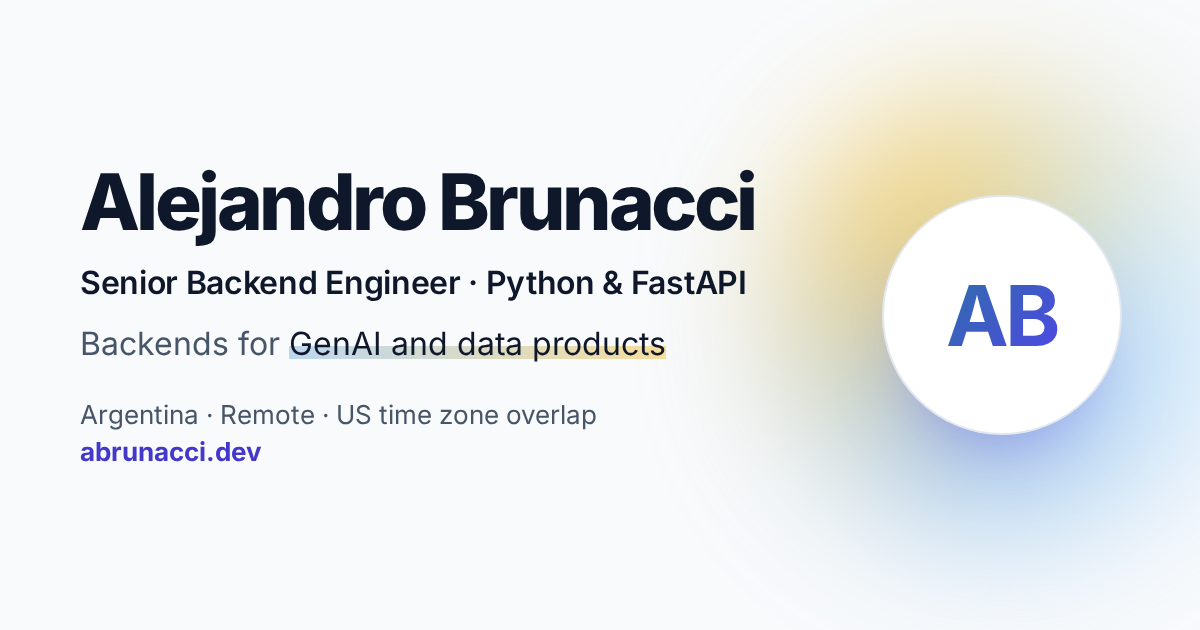
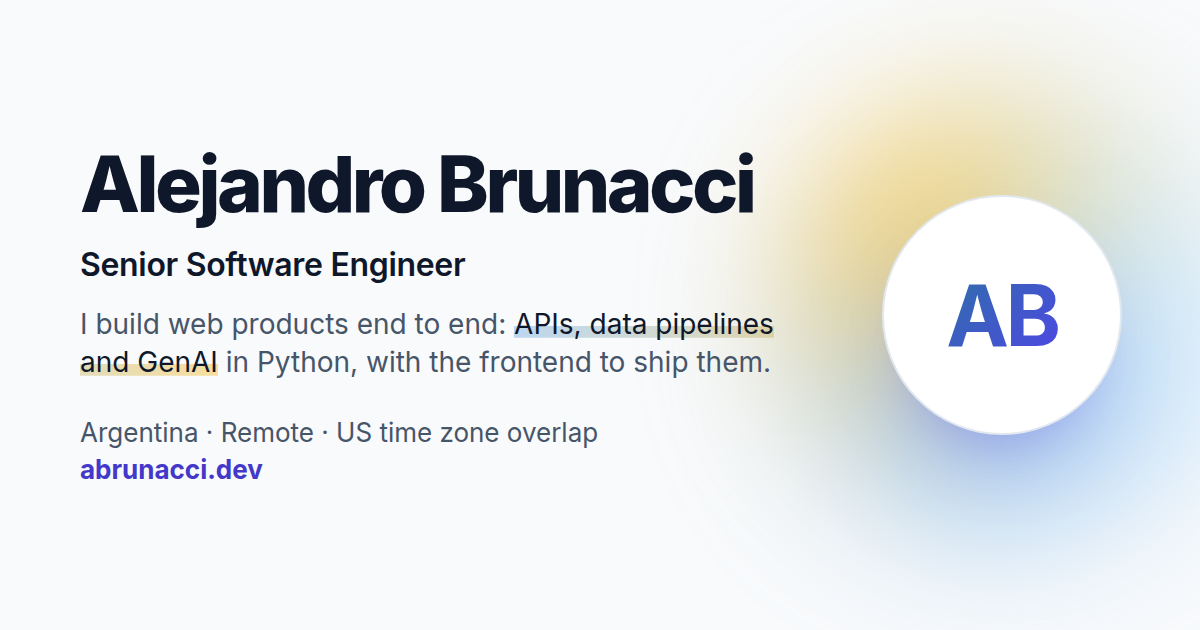
Present the role as Senior Software Engineer
The hero, the contact heading, the contact form, the search and share
metadata and the share image now say Senior Software Engineer, with a
tagline that covers APIs, data pipelines and GenAI end to end. The
specifics (Python, FastAPI, Databricks) move to the title and the meta
description.

Changed region(s): [[0.0617, 0.2413, 0.6475, 0.6032], [0.0617, 0.6333, 0.4933, 0.7841]]

diff --git a/tools/og-image.html b/tools/og-image.html
@@ -38,7 +38,8 @@
   h1 { margin: 0; font-size: 78px; white-space: nowrap; font-weight: 800; line-height: 1; letter-spacing: -0.045em; }
   p { margin: 0; }
   .role { font-size: 32px; white-space: nowrap; font-weight: 600; letter-spacing: -0.01em; }
-  .tagline { font-size: 32px; white-space: nowrap; color: #475569; }
+  /* The tagline is a full sentence: it wraps, unlike the lines above. */
+  .tagline { font-size: 28px; line-height: 1.35; color: #475569; text-wrap: balance; }
   .mark {
     color: #0f172a;
     background: linear-gradient(90deg, rgb(116 172 223 / 0.45), rgb(246 180 14 / 0.4)) no-repeat 0 88% / 100% 0.42em;
@@ -71,8 +72,8 @@
   <div class="halo"></div>
   <div class="text">
     <h1>Alejandro Brunacci</h1>
-    <p class="role">Senior Backend Engineer · Python &amp; FastAPI</p>
-    <p class="tagline">Backends for <span class="mark">GenAI and data products</span></p>
+    <p class="role">Senior Software Engineer</p>
+    <p class="tagline">I build web products end to end: <span class="mark">APIs, data pipelines and GenAI</span> in Python, with the frontend to ship them.</p>
     <p class="meta"><span>Argentina · Remote · US time zone overlap</span><span class="url">abrunacci.dev</span></p>
   </div>
   <div class="avatar"><span>AB</span></div>

diff --git a/backend/src/contact/templates/form.html b/backend/src/contact/templates/form.html
@@ -1,7 +1,7 @@
 {% extends "base.html" %}
 {% block title %}Contact{% endblock %}
 {% block meta %}
-  <meta name="description" content="Write to Alejandro Brunacci, Senior Backend Engineer (Python & FastAPI).">
+  <meta name="description" content="Write to Alejandro Brunacci, Senior Software Engineer.">
 {% endblock %}
 {% block style %}
     .form {
@@ -80,7 +80,7 @@
 {% endblock %}
 {% block main %}
       <p class="eyebrow">Get in touch</p>
-      <h1>Need a senior backend engineer for your GenAI or data product?</h1>
+      <h1>Need a senior engineer?</h1>
       <p class="lead">Tell me about your product, your team and what you need built.</p>
       {% if error %}
       <p class="alert" role="alert">{{ error }}</p>

diff --git a/src/styles/global.css b/src/styles/global.css
@@ -311,6 +311,8 @@ h1 {
 
 .tagline {
   font-size: 1.1875rem;
+  /* A full sentence: even lines instead of one word left alone. */
+  text-wrap: balance;
 }
 
 /* A marker stroke under the part of the tagline that matters most. */
